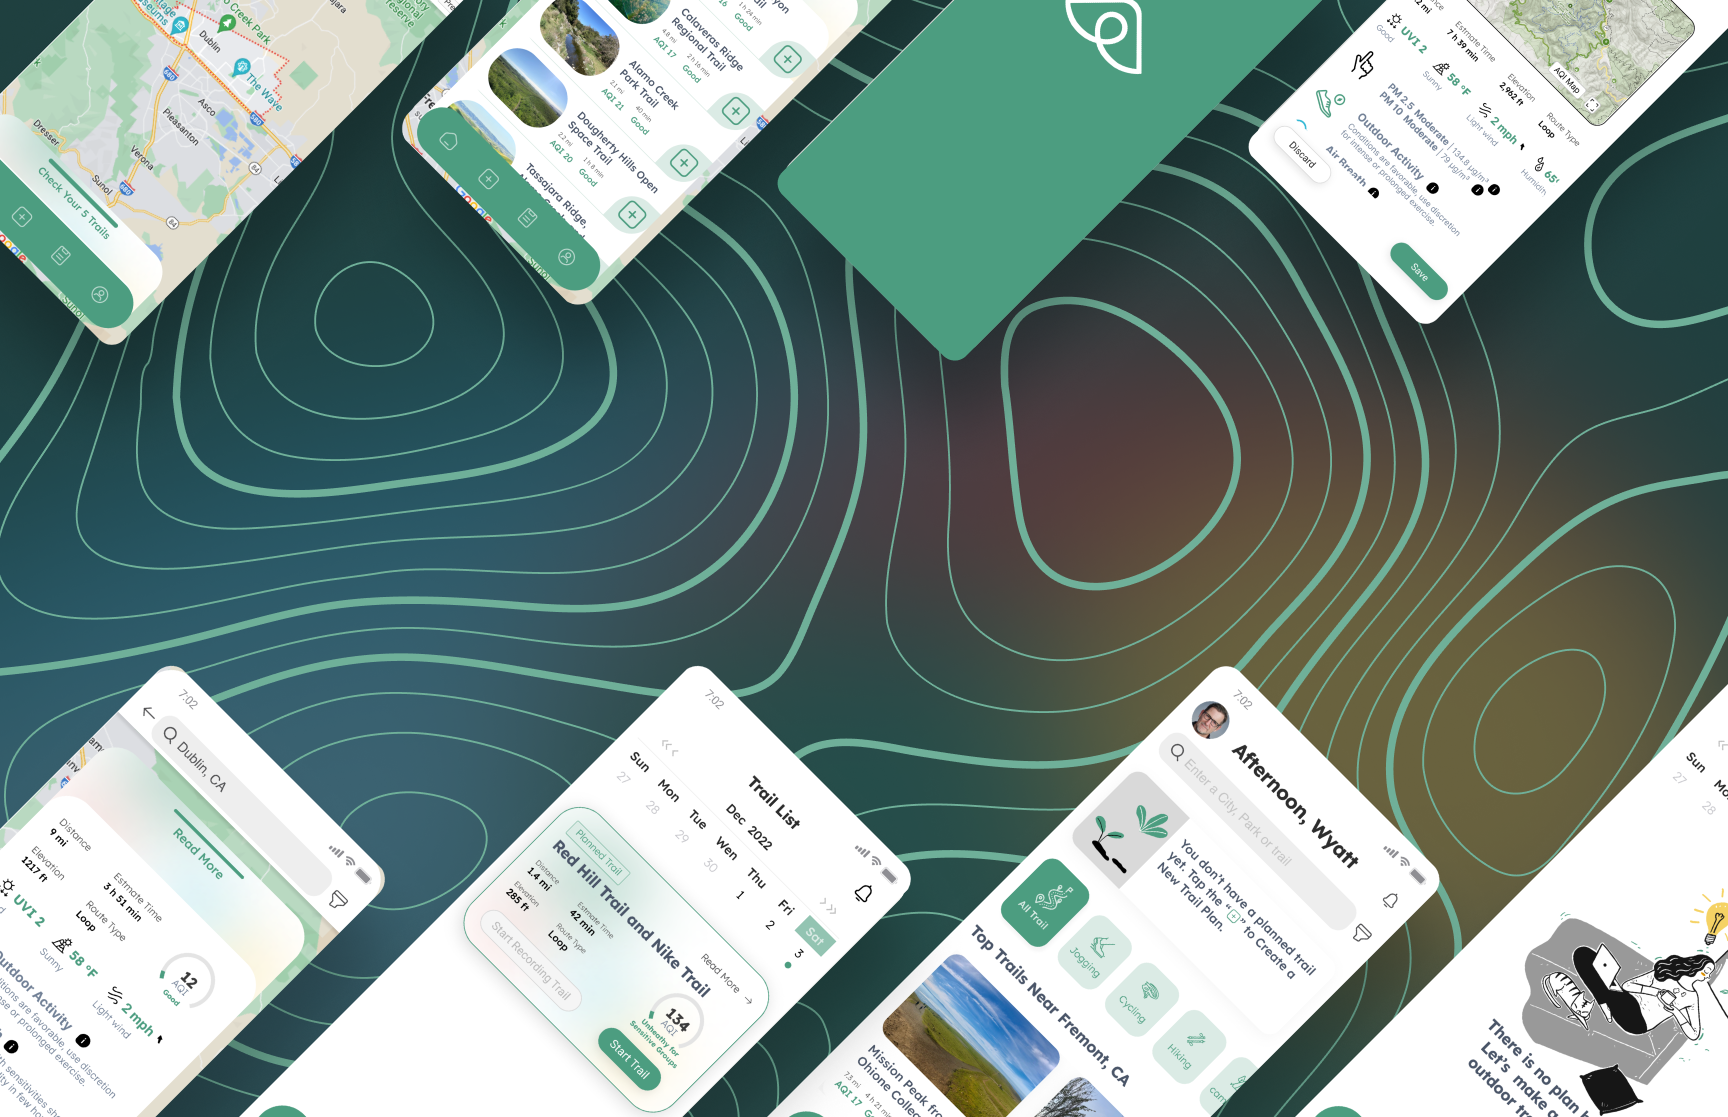
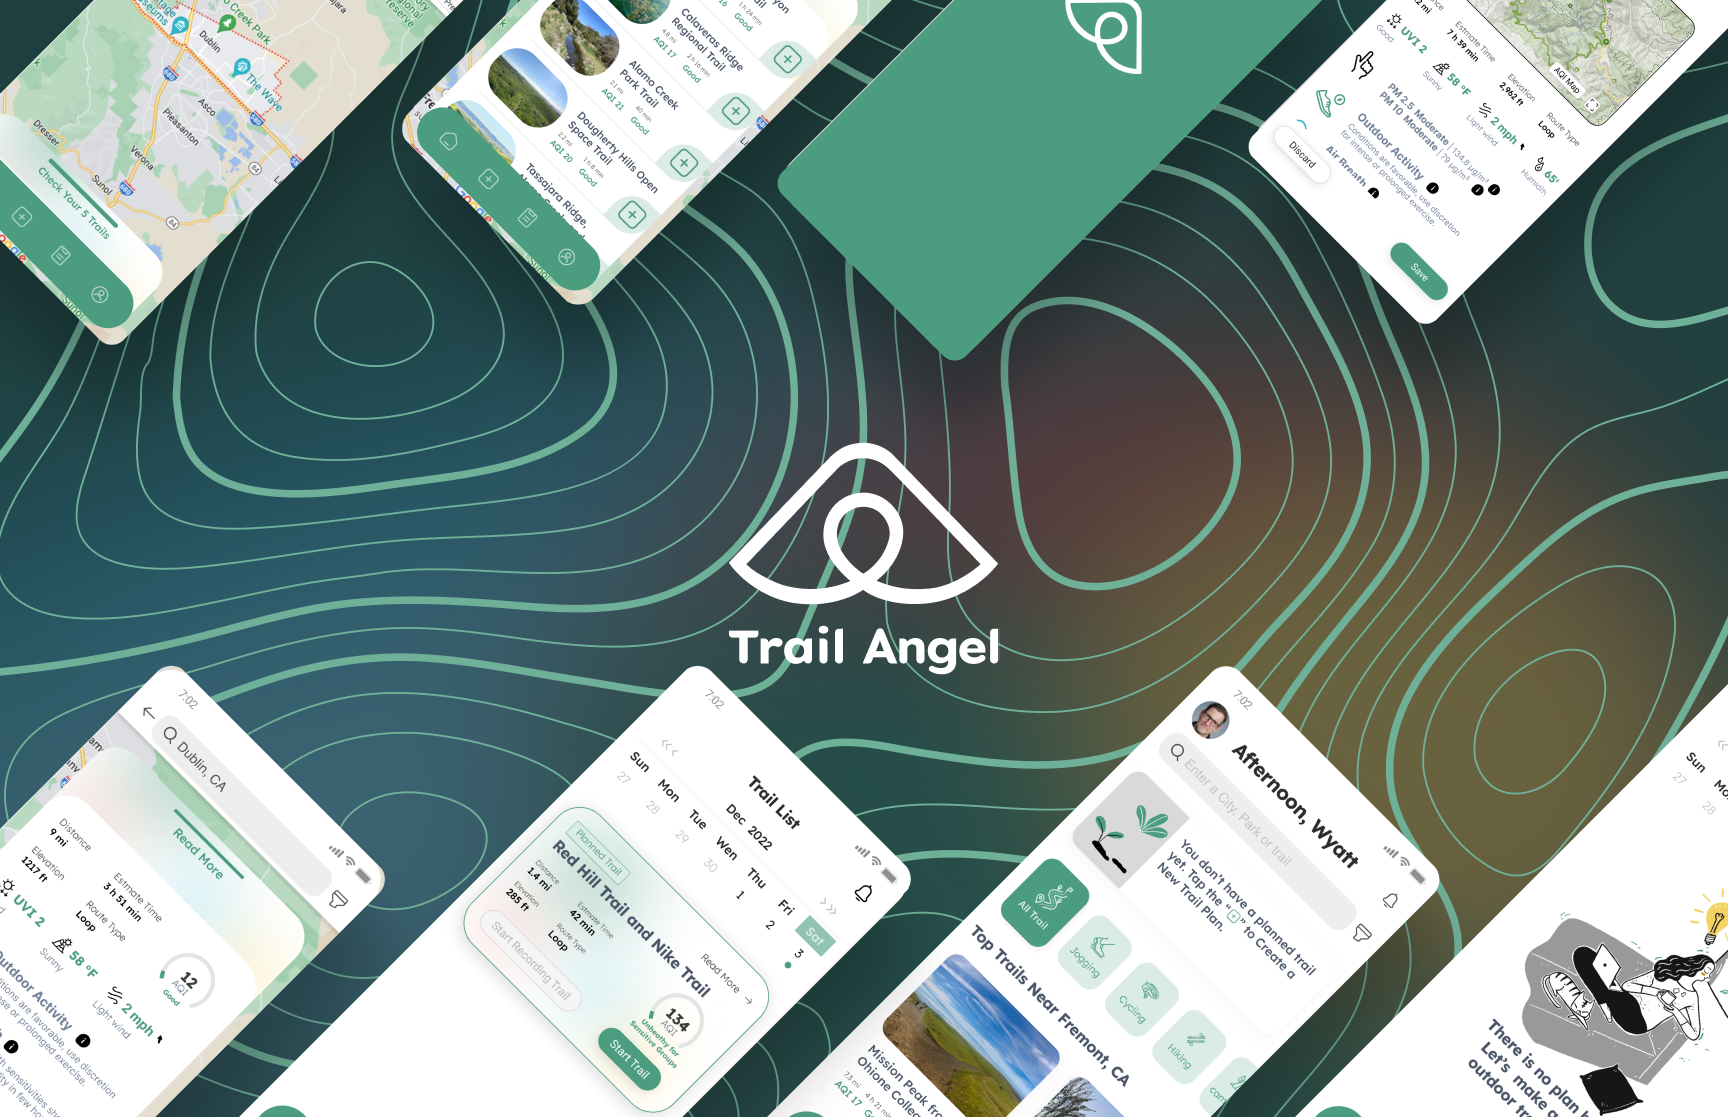
trail angel hero image

Changed region(s): [[0.4062, 0.3957, 0.5938, 0.6088], [0.5625, 0.487, 0.5938, 0.5175], [0.4062, 0.487, 0.4375, 0.5175]]

diff --git a/projects/trail_angel.html b/projects/trail_angel.html
@@ -12,7 +12,168 @@
     <script src="https://cdn.jsdelivr.net/npm/alpinejs@2.8.2/dist/alpine.min.js" defer></script>
 
     <link href="https://cdnjs.cloudflare.com/ajax/libs/flowbite/1.8.1/flowbite.min.css" rel="stylesheet" />
-    
+    <style>
+      .opacity-0 {
+  opacity: 0;
+}
+
+
+ /* Custom CSS for animations */
+ @keyframes dropIn {
+  0% {
+    transform: translateY(-100%);
+    opacity: 0;
+  }
+  100% {
+    transform: translateY(0);
+    opacity: 1;
+  }
+}
+
+@keyframes rise {
+  0% {
+    transform: translateY(100%);
+    opacity: 0;
+  }
+  100% {
+    transform: translateY(0);
+    opacity: 1;
+  }
+}
+
+@keyframes popIn {
+  from {
+    opacity: 0;
+  }
+  to {
+    opacity: 1;
+  }
+}
+
+@keyframes slideRight {
+  from {
+    transform: translateX(0);
+    opacity: 0;
+  }
+  to {
+    transform: translateX(20px);
+    opacity: 1;
+  }
+}
+
+/* Adjust the existing classes to include the visibility effect */
+.animate-drop-in {
+  animation: dropIn 0.5s ease-out forwards;
+  animation-delay: 0.5s;
+}
+
+.animate-rise {
+  animation: rise 0.5s ease-out forwards;
+  animation-delay: 1s;
+}
+
+.animate-pop-in {
+  animation: popIn 0.5s ease-out forwards;
+  animation-delay: 2s;
+}
+
+/* Positioning for the logo */
+.logo-container {
+  position: absolute;
+  top: 50%;  /* Center vertically */
+  left: 50%; /* Center horizontally */
+  transform: translate(-50%, -50%);
+  z-index: 10; /* Ensure it's above the banner image */
+}
+
+/* Ensure the banner image is responsive and maintains aspect ratio */
+.banner-image {
+  width: 100%;
+  height: auto;
+  display: block; /* Remove bottom margin/space */
+}
+
+/* Responsive adjustments */
+@media (max-width: 768px) { /* iPad screen size and below */
+  .container {
+    text-align: center; /* Center-align text for smaller screens */
+    padding: 0 1rem; /* Add padding to prevent text touching the screen edges */
+  }
+  .container > div, /* Adjust hero text and image */
+  .container > p, /* Adjust description paragraph */
+  .container > div > div, /* Adjust social links and email container */
+  .container > div > div > a { /* Adjust social links and email items */
+    flex-direction: column;
+    align-items: center;
+    width: 100%; /* Full width */
+    margin-bottom: 0.5rem; /* Add a little space between stacked items */
+  }
+  .project-title {
+    order: 2;
+  }
+
+  .description-text {
+    order: 3;
+  }
+
+  .read-more-link {
+    order: 4;
+    margin-top: 1rem; /* add space above the Read More link */
+  }
+
+  .tags-container {
+    order: 1;
+  }
+
+  .desktop-image {
+    display: none;
+  }
+
+  .mobile-image {
+    display: block;
+  }
+
+  #project .container {
+    display: flex;
+    flex-direction: column;
+  }
+
+  .image-link {
+    order: 0; /* Image comes first */
+  }
+}
+
+@media (max-width: 1920px) {
+  /* h1, p {
+    font-size: 9rem; /* Large font size for 1920px wide screens */
+  }
+} */
+
+@media (max-width: 1024px) { /* For tablet screens */
+  .text-9xl {
+    font-size: 6rem; /* Smaller font size for better readability */
+  }
+  .text-6xl {
+    font-size: 4rem;
+  }
+  .container {
+    text-align: center; /* Center-align text for tablet screens */
+  }
+}
+
+@media (max-width: 375px) { /* For iPhone 13 mini and similar sizes */
+  .text-8xl {
+    font-size: 3rem; /* Further reduced font size for small screens */
+  }
+  .text-6xl {
+    font-size: 1.5rem;
+  }
+  .text-3xl {
+    font-size: 1.5rem; /* Adjusting social links and email font size */
+  } 
+}
+
+    </style>
     
 </head>
 <body>
@@ -79,22 +240,23 @@
 </script>
 
 
-<section id="hero_image">
-    <div class="relative overflow-hidden bg-cover bg-no-repeat" style="background-position: 50%; background-image: url('/img/trail-angel/trail_angel_banner.png'); height: 1080px; ">
-    <div
-        class="absolute top-0 right-0 bottom-0 left-0 h-full w-full overflow-hidden bg-[hsla(0,0%,0%,0.75)] bg-fixed">
-        <div class="flex h-full items-center justify-center">
-        <div class="px-6 text-center text-white md:px-12">
-            <img src="/img/trail-angel/trailangellogo.png" alt="Logo" class="w-40 h-30 mx-auto mb-4">
-            <h1 class="mt-2 mb-16 text-5xl font-bold tracking-tight md:text-6xl xl:text-7xl">
-                Make the Invisible Tangible
-            </h1>
-        
-        </div>
-        </div>
+<!-- Hero Section -->
+<section class="bg-white text-black mx-auto w-full max-w-screen-xl pt-20 pb-5 px-4 relative overflow-hidden">
+  <div class="container mx-auto flex flex-col justify-center items-start text-left">
+    <!-- Title with animation, initially hidden -->
+    <h1 class="text-8xl font-bold opacity-0 animate-drop-in py-20">Make the Invisible Tangible</h1>
+    <!-- Container for images with relative positioning -->
+    <div class="relative w-full mt-auto">
+      <!-- Banner image with full width, initially hidden -->
+      <img src="/img/trail-angel/trail_angel_banner.png" alt="Trail Angel Banner" class="w-full h-auto object-cover opacity-0 animate-rise">
+      <!-- Logo image container with absolute positioning, initially hidden -->
+      
     </div>
-    </div>
+  </div>
 </section>
+
+
+
 
 
 
